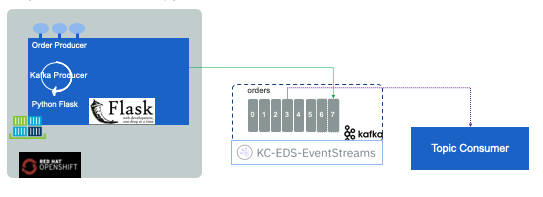
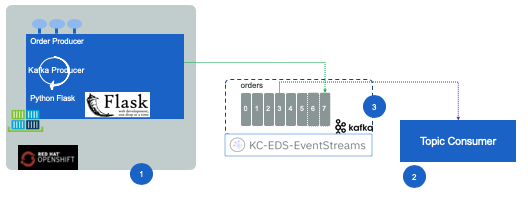
Enhance diagram and explanation

diff --git a/README.md b/README.md
@@ -8,7 +8,11 @@ The high level view of the solution may look like the figure below:
 
 ![](docs/order-producer-python.png)
 
-The application exposes two APIs:
+1. The application this repository is doing. This readme explains how to deploy it on Openshift.
+1. The order consumer runs locally on the developer machine, and is here to validate tests
+1. The Kafka deployment is IBM Cloud Event Stream service.
+
+The application (1) exposes two APIs:
 
 * GET /order to get an order by id
 * POST /order to create an order
@@ -16,6 +20,8 @@ The application exposes two APIs:
 There is no persistence, only a key-value map in memory.
 
 When the order creation command is performed, an event is published to the kafka broker on the `orders` topic. The KcProducer.py defines a class to produce message. It uses different options depending of the type of deployment used for Kafka (Local or On Cloud). 
+
+## Build and run on OpentShift
 
 To deploy the code to an openshift cluster do the following:
 
@@ -55,9 +61,9 @@ To deploy the code to an openshift cluster do the following:
 
 1. To trigger a build from local source code
 
-  ```
-  oc start-build order-producer-python --from-file=.
-  ```
+    ```
+    oc start-build order-producer-python --from-file=.
+    ```
 
 1. Set environment variables
 
@@ -83,7 +89,7 @@ To deploy the code to an openshift cluster do the following:
     oc set env pod/order-producer-python-4-tq27j --list
     ```
 
-Running the scripts/setenv.sh will set those environment variables. 
+Running the scripts/setenv.sh will set those environment variables. (Set the environment variable for the kafka broker end points, and the API key in the setenv-tmpl.sh and rename the scripts as setenv.sh )
 
 ## Run integration test
 
